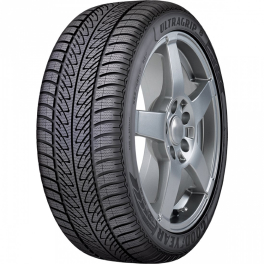
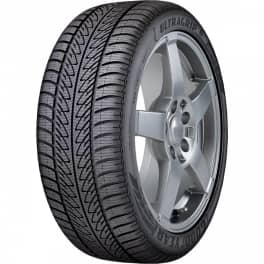
Сжатие изображений

diff --git a/gulpfile.js b/gulpfile.js
@@ -63,16 +63,11 @@ export const makeHtml = () => {
 }
 
 export const compressImages = () => {
-  return gulp.src('src/img/*.{jpg,svg}')
+  return gulp.src('src/img/*.jpg')
   .pipe(imagemin([
     imagemin.mozjpeg({ quality: 70, progressive: true }),
-    imagemin.svgo({
-        plugins: [
-            { removeViewBox: true },
-            { cleanupIDs: false }
-        ]
-    })
-  ]));
+  ]))
+  .pipe(gulp.dest('src/img/'));
 }
 
 export const refresh = (done) => {
